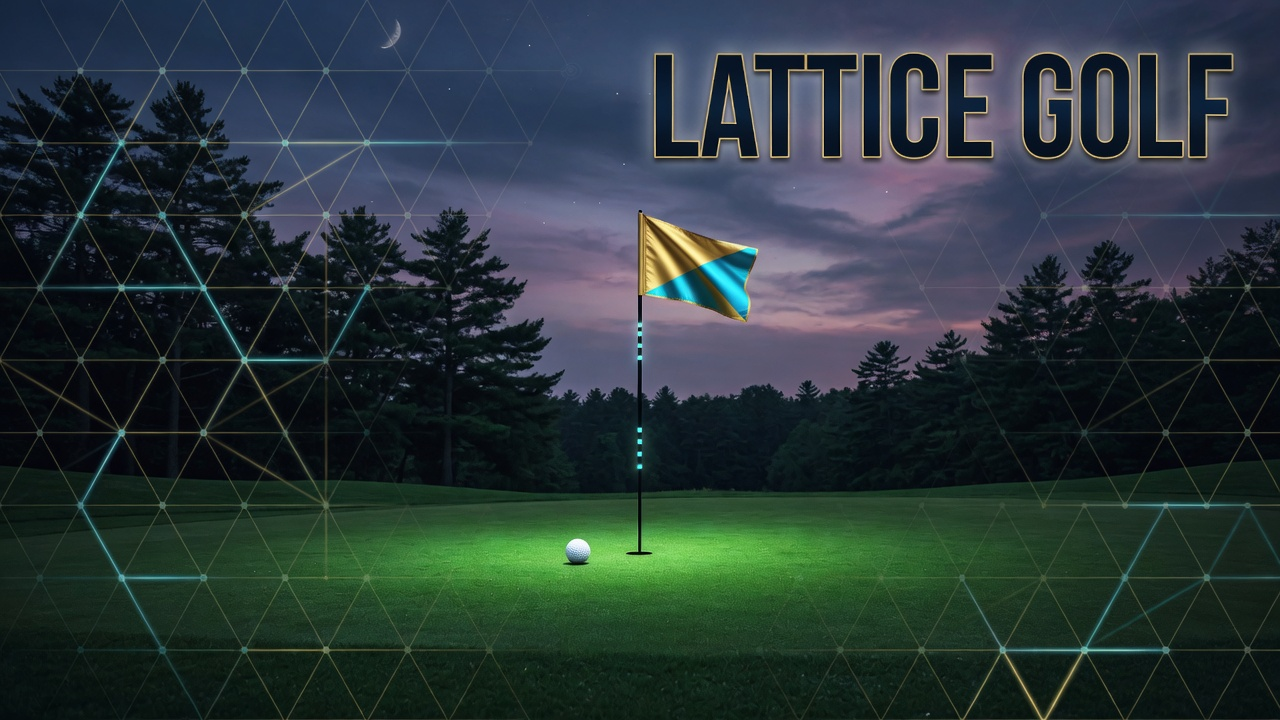
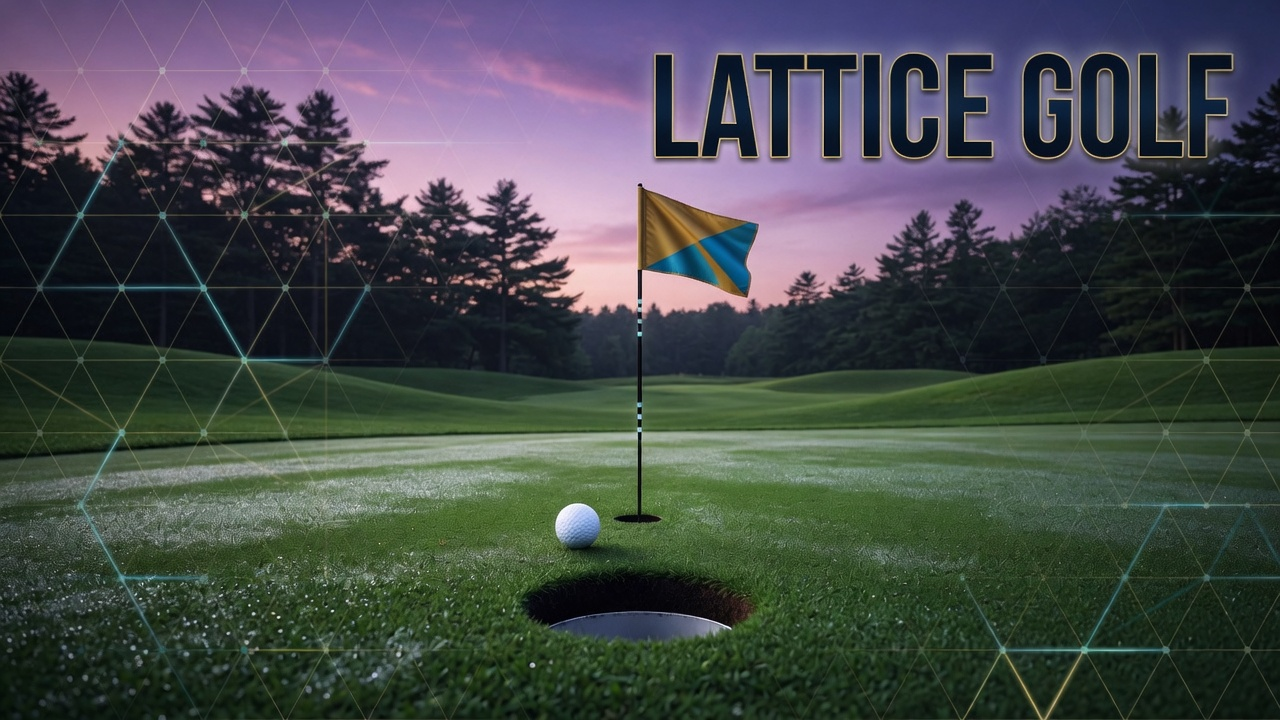
Lattice Golf: show title art on the menu like Marines; cache-bust assets.

diff --git a/games/lattice-golf/game.css b/games/lattice-golf/game.css
@@ -105,30 +105,32 @@ html, body { margin: 0; height: 100%; background: var(--bg); color: var(--text);
   position: fixed; inset: 0; background: #07140ce8; display: grid; place-items: center;
   padding: 1rem; z-index: 20; overflow: auto;
 }
-.overlay.studio { padding: 0; display: block; background: #050c08; }
-.studio-hero {
-  min-height: 100%;
-  background: #050c08 url("./assets/menu.jpg") center / cover no-repeat;
+.overlay.studio { padding: 0; display: block; background: #050c08; overflow: auto; }
+.title-screen {
+  min-height: 100vh;
   display: grid;
-  grid-template-columns: minmax(280px, 1.05fr) minmax(320px, 520px);
-  gap: 0;
+  grid-template-columns: 1.2fr minmax(320px, 480px);
 }
-.studio-fade {
-  background: linear-gradient(90deg, #050c08f2 8%, #050c08cc 42%, #050c0840 100%);
-  padding: clamp(1.2rem, 4vw, 3rem) clamp(1.1rem, 3vw, 2.4rem);
-  display: flex; flex-direction: column; justify-content: center; min-height: 100vh;
+.title-art { position: relative; min-height: 100vh; background: #050c08; }
+.title-art img { width: 100%; height: 100%; object-fit: cover; display: block; }
+.title-art-fade {
+  position: absolute; inset: 0;
+  background: linear-gradient(90deg, transparent 48%, #07140c 100%);
+  pointer-events: none;
 }
-.studio-panel {
-  background: linear-gradient(180deg, #0c1c12f0, #07140cf2);
+.title-panel {
+  background: linear-gradient(180deg, #0c1c12, #07140c);
   border-left: 1px solid var(--line);
   padding: clamp(1.1rem, 3vw, 2rem);
   overflow: auto;
   min-height: 100vh;
+  display: flex; flex-direction: column; justify-content: center;
 }
-.studio-hero h1 {
-  font-family: Syne, sans-serif; font-size: clamp(2.4rem, 6vw, 4.2rem);
-  letter-spacing: .06em; margin: .2rem 0 .4rem; line-height: .95;
+.title-panel h1 {
+  font-family: Syne, sans-serif; font-size: clamp(1.7rem, 3.4vw, 2.6rem);
+  letter-spacing: .06em; margin: .15rem 0 .35rem; line-height: .98;
 }
+.title-tag { color: var(--text); font-size: 1.02rem; margin: 0 0 .7rem; }
 .donate-row { display: flex; flex-wrap: wrap; gap: .45rem; margin: .85rem 0 0; }
 .donate-row a {
   display: inline-flex; align-items: center; gap: .35rem;
@@ -157,9 +159,10 @@ html, body { margin: 0; height: 100%; background: var(--bg); color: var(--text);
   .stage { grid-template-columns: 1fr; grid-template-rows: 1fr auto; }
   .rail { border-left: 0; border-top: 1px solid var(--line); max-height: 42vh; }
   .modes { grid-template-columns: 1fr; }
-  .studio-hero { grid-template-columns: 1fr; }
-  .studio-fade { min-height: auto; padding-top: 2.4rem; }
-  .studio-panel { border-left: 0; border-top: 1px solid var(--line); min-height: auto; }
+  .title-screen { grid-template-columns: 1fr; }
+  .title-art { min-height: 34vh; }
+  .title-art-fade { background: linear-gradient(180deg, transparent 35%, #07140c 100%); }
+  .title-panel { border-left: 0; border-top: 1px solid var(--line); min-height: auto; }
 }
 .score-table { width: 100%; border-collapse: collapse; font-size: .8rem; }
 .score-table th, .score-table td { border-bottom: 1px solid #1e3a28; padding: .25rem .3rem; text-align: center; }

diff --git a/games/lattice-golf/game.js b/games/lattice-golf/game.js
@@ -721,17 +721,18 @@
     $("app").classList.add("hidden");
     const name = (G.save.name || "").replace(/[<>]/g, "");
     showSheet(
-      "<div class='studio-hero'>" +
-        "<div class='studio-fade'>" +
-          "<p class='kicker'>Δ9Φ963 · eternalhaven.ca</p>" +
-          "<h1>LATTICE<br>GOLF</h1>" +
-          "<p class='lore'>Pick a club. Plant a marker. Power is 25–100% of that line on the green — 100% rolls to the cup. Wind is slight and honest.</p>" +
-          donateHtml() +
-          "<p class='lore' style='margin-top:1rem'>Click the course to plant a marker. 1–4 power. [ ] clubs. Space shoot. Z undo.</p>" +
+      "<div class='title-screen'>" +
+        "<div class='title-art'>" +
+          "<img src='./assets/menu.jpg?v=3' alt='Lattice Golf — twilight pin and cup'>" +
+          "<div class='title-art-fade'></div>" +
         "</div>" +
-        "<div class='studio-panel'>" +
-          "<p class='kicker'>Studio menu</p>" +
-          "<label>Operator name</label>" +
+        "<div class='title-panel'>" +
+          "<p class='kicker'>Δ9Φ963 · eternalhaven.ca</p>" +
+          "<h1>LATTICE GOLF</h1>" +
+          "<p class='title-tag'>Plant the marker on the cup. 100% rolls that line in.</p>" +
+          "<p class='lore'>1–4 power · [ ] clubs · Space shoot · Z undo</p>" +
+          donateHtml() +
+          "<label style='margin-top:.85rem;display:block'>Operator name</label>" +
           "<input class='name' id='nm' maxlength='24' value='" + name.replace(/'/g, "") + "' placeholder='Operator'>" +
           "<div class='mode-grid'>" +
             "<button type='button' class='mode-card' data-go='pine'><b>Pine Haven 9</b><span>" + PINE.lore + "</span></button>" +

diff --git a/games/lattice-golf/index.html b/games/lattice-golf/index.html
@@ -35,7 +35,7 @@
 <link rel="preconnect" href="https://fonts.googleapis.com">
 <link rel="preconnect" href="https://fonts.gstatic.com" crossorigin>
 <link href="https://fonts.googleapis.com/css2?family=IBM+Plex+Mono:wght@400;500;600&family=Syne:wght@600;700;800&family=Source+Sans+3:wght@400;600;700&display=swap" rel="stylesheet">
-<link rel="stylesheet" href="./game.css">
+<link rel="stylesheet" href="./game.css?v=3">
 <link rel="stylesheet" href="/games/hub.css">
 <script type="application/ld+json">{"@context":"https://schema.org","@type":"VideoGame","name":"Lattice Golf","url":"https://eternalhaven.ca/games/lattice-golf/","description":"Browser golf: club ranges, marker aiming, wind, named 9 and 18-hole courses, endless mode, campaign vs AI, local ledger.","image":"https://eternalhaven.ca/games/lattice-golf/assets/og.jpg","author":{"@type":"Person","name":"Justin Helmer","alternateName":"Excavationpro"},"publisher":{"@type":"Organization","name":"Eternal Haven","url":"https://eternalhaven.ca/"},"genre":["Sports","Golf","Strategy"],"gamePlatform":"Web browser","offers":{"@type":"Offer","price":"0","priceCurrency":"CAD"},"applicationCategory":"Game"}</script>
 </head>
@@ -102,6 +102,6 @@
 </div>
 
 <div id="overlay" class="overlay"></div>
-<script src="./game.js"></script>
+<script src="./game.js?v=3"></script>
 </body>
 </html>
